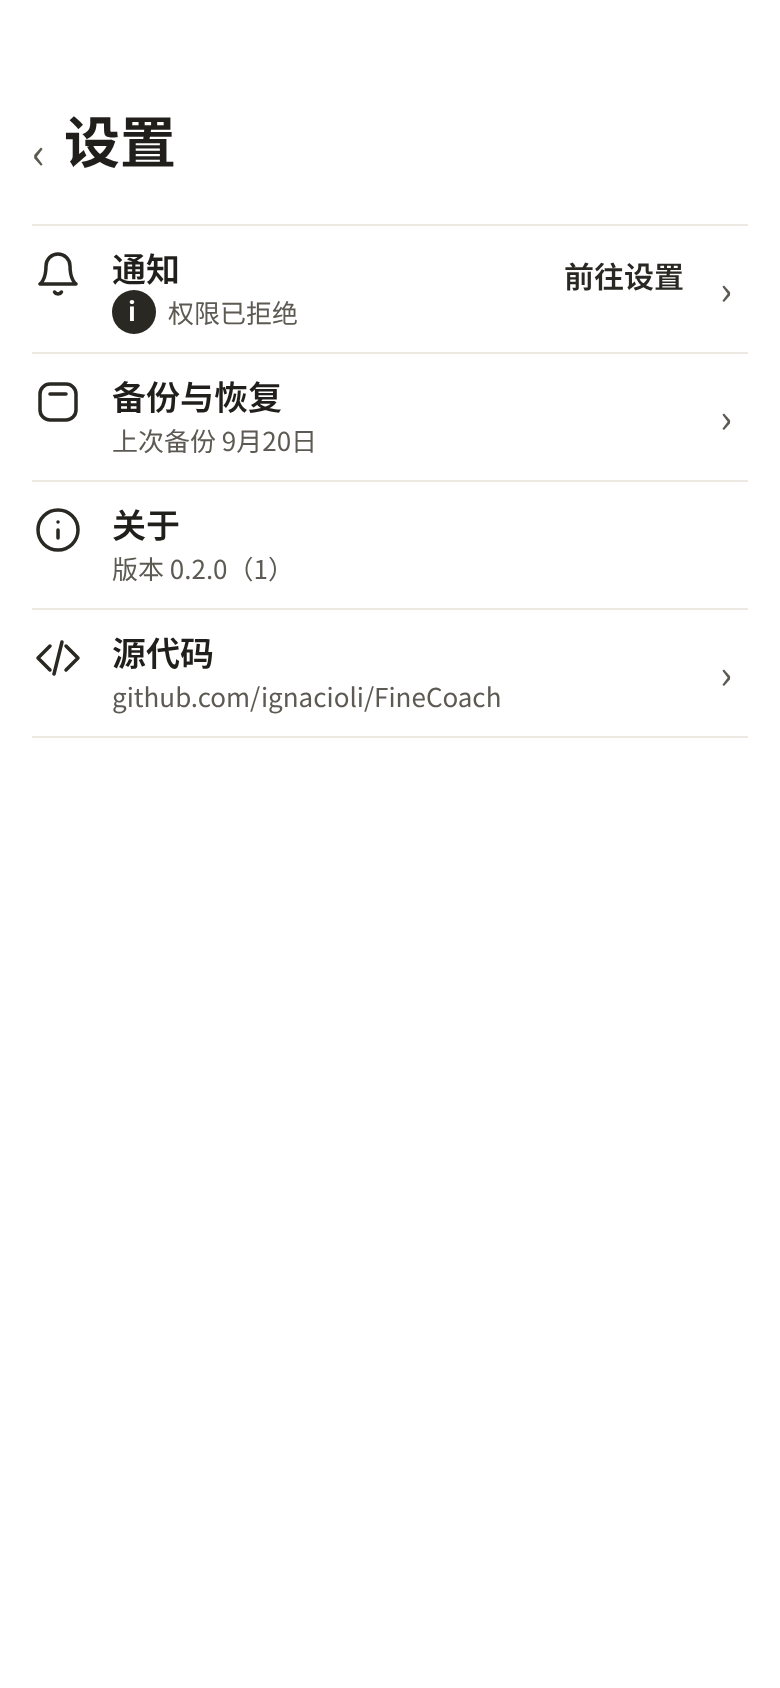
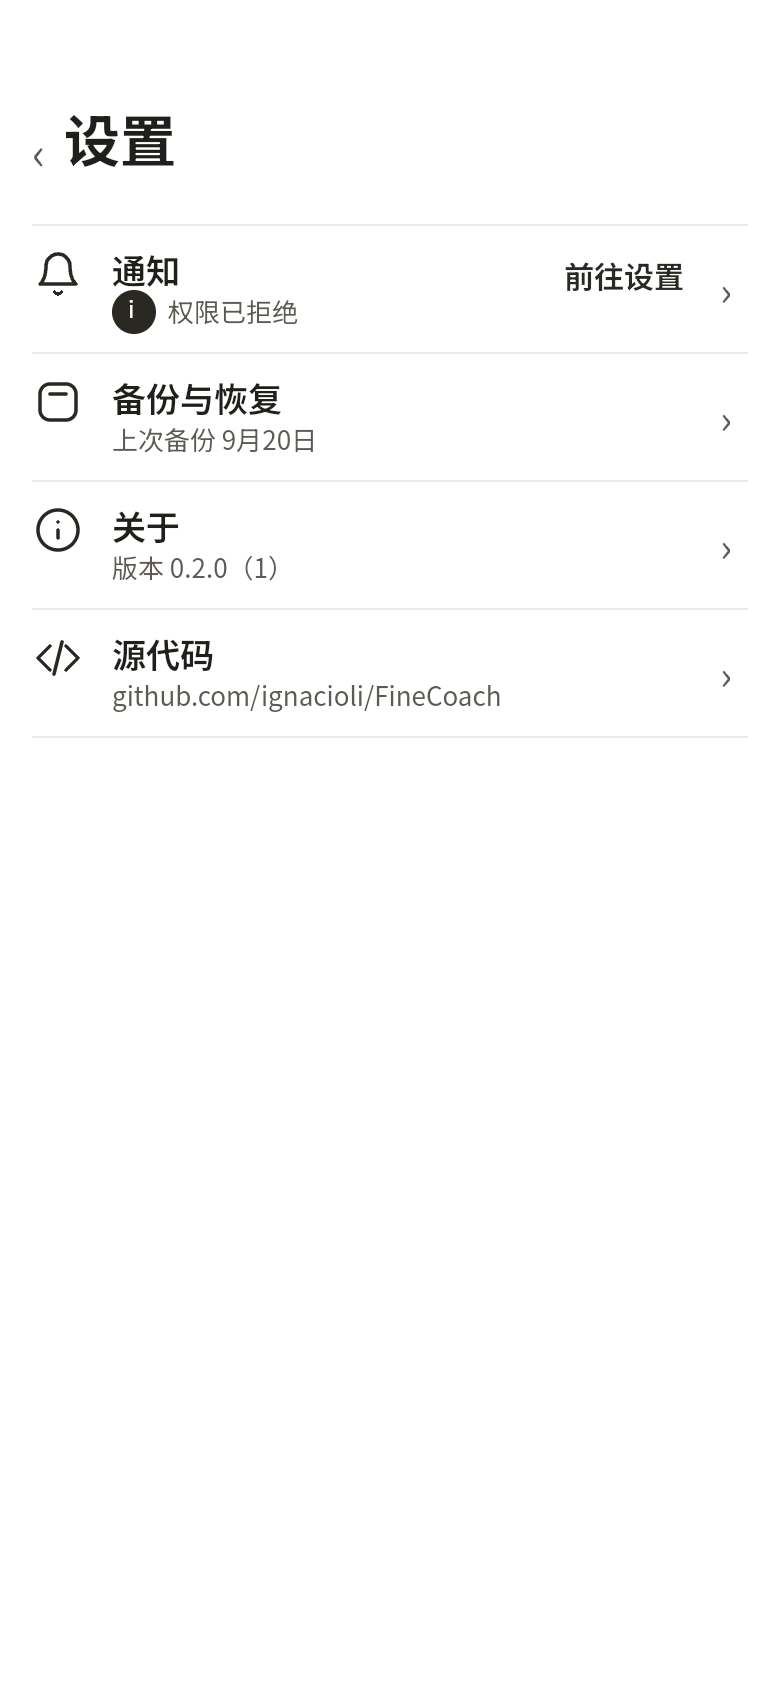
feat: show exercise catalog and font attribution on the coach About page
Make Settings > About tappable and add an About page that counts the
bundled catalog's sources and licenses from provenance.json at runtime
(free-exercise-db Unlicense, wger.de CC BY-SA 3.0/4.0 and CC0, FineCoach
originals MIT), links to provenance.json and the CC BY-SA licenses, and
lists the Noto Sans SC OFL license. Normalize license spellings so the
student archive viewer no longer shows the same license twice.

Needed before TestFlight distribution (owner decision D6, 2026-11-02;
design decision README C33, Penpot D15c/D15d/D15e backfilled).

diff --git a/ios/FineCoachApp/Features/Settings/CoachAboutView.swift b/ios/FineCoachApp/Features/Settings/CoachAboutView.swift
@@ -1,0 +1,82 @@
+import SwiftUI
+
+struct CoachAboutView: View {
+    static let provenanceURL = URL(
+        string:
+            "https://github.com/ignacioli/FineCoach/blob/main/ios/FineCoachApp/Resources/ExerciseCatalog/provenance.json"
+    )!
+    static let ccBySA4URL = URL(string: "https://creativecommons.org/licenses/by-sa/4.0/")!
+    static let ccBySA3URL = URL(string: "https://creativecommons.org/licenses/by-sa/3.0/")!
+
+    @Environment(\.openURL) private var openURL
+    @State private var sources: [CoachAboutSource] = []
+    @State private var catalogUnavailable = false
+
+    var body: some View {
+        ScrollView {
+            VStack(alignment: .leading, spacing: FCPrimitives.space4) {
+                FCPageHeader(
+                    title: String(localized: "settings.about"),
+                    back: .init(accessibilityIdentifier: FCAccessibilityID.aboutBack))
+                FCLabelValueRow(label: String(localized: "about.version"), value: SettingsView.versionText)
+                FCSectionLabel(String(localized: "about.sources"))
+                VStack(spacing: 0) {
+                    FCListRowDivider()
+                    ForEach(sources) { source in
+                        FCHubRow(icon: .symbol("book"), title: source.text, mode: .informational)
+                        FCListRowDivider()
+                    }
+                }
+                if catalogUnavailable {
+                    Text(String(localized: "about.sources.unavailable"))
+                        .fcFont(.caption)
+                        .foregroundStyle(FCSemanticColors.textSecondary)
+                }
+                Text(String(localized: "about.translation"))
+                    .fcFont(.caption)
+                    .foregroundStyle(FCSemanticColors.textSecondary)
+                VStack(spacing: 0) {
+                    FCListRowDivider()
+                    externalLink(
+                        String(localized: "about.provenance"), url: Self.provenanceURL,
+                        identifier: FCAccessibilityID.aboutProvenance)
+                    FCListRowDivider()
+                    externalLink(
+                        "CC BY-SA 4.0", url: Self.ccBySA4URL,
+                        identifier: FCAccessibilityID.aboutCCBySA4)
+                    FCListRowDivider()
+                    externalLink(
+                        "CC BY-SA 3.0", url: Self.ccBySA3URL,
+                        identifier: FCAccessibilityID.aboutCCBySA3)
+                    FCListRowDivider()
+                }
+                FCSectionLabel(String(localized: "about.fonts"))
+                FCHubRow(
+                    icon: .symbol("textformat"), title: "Noto Sans SC · SIL Open Font License 1.1",
+                    mode: .informational)
+            }
+            .frame(maxWidth: .infinity, alignment: .leading)
+            .padding(.horizontal, FCPrimitives.space4)
+            .padding(.bottom, FCPrimitives.space6)
+        }
+        .background(FCSemanticColors.surfacePage)
+        .fcSecondaryPage()
+        .accessibilityElement(children: .contain)
+        .accessibilityIdentifier(FCAccessibilityID.aboutRoot)
+        .task {
+            do {
+                sources = try CoachAboutSource.rows(catalog: PlaceholderExerciseCatalogLoader.loadFromBundle(.main))
+            } catch {
+                catalogUnavailable = true
+            }
+        }
+    }
+
+    private func externalLink(_ title: String, url: URL, identifier: String) -> some View {
+        FCHubRow(
+            icon: .symbol("chevron.left.forwardslash.chevron.right"), title: title,
+            mode: .action { openURL(url) }
+        )
+        .accessibilityIdentifier(identifier)
+    }
+}

diff --git a/ios/FineCoachTests/App/CoachAboutAttributionTests.swift b/ios/FineCoachTests/App/CoachAboutAttributionTests.swift
@@ -1,0 +1,51 @@
+import Foundation
+import XCTest
+
+@testable import FineCoach
+
+final class CoachAboutAttributionTests: XCTestCase {
+    func testLicenseAliasesNormalizeBeforeDeduplicationAndUnknownNamesSurvive() {
+        let cases = [
+            "CC-BY-SA 4": "CC BY-SA 4.0", "CC-BY-SA-4.0": "CC BY-SA 4.0",
+            "CC-BY-SA 3": "CC BY-SA 3.0", "CC-BY-SA-3.0": "CC BY-SA 3.0",
+            "CC0": "CC0 1.0", "CC0-1.0": "CC0 1.0", "Unlicense": "Unlicense",
+            "MIT": "MIT", "Unknown license": "Unknown license",
+        ]
+        for (raw, expected) in cases {
+            XCTAssertEqual(ExerciseLicensePresentation.displayName(raw), expected)
+        }
+        XCTAssertEqual(
+            ArchiveViewerPresentation.licenseDisplayName("CC-BY-SA 4 / CC-BY-SA-4.0"),
+            "CC\u{00A0}BY\u{2011}SA\u{00A0}4.0")
+    }
+
+    func testBundledSourceRowsCountExercisesAndNormalizeLicenses() throws {
+        let catalog = try PlaceholderExerciseCatalogLoader.loadFromBundle(.main)
+        let rows = try CoachAboutSource.rows(catalog: catalog)
+        XCTAssertEqual(rows.map(\.id), ["free-exercise-db", "wger.de", "finecoach-built"])
+        XCTAssertEqual(rows.map(\.count), [310, 226, 6])
+        XCTAssertEqual(
+            rows.map(\.text),
+            [
+                "free-exercise-db · 310 条 · Unlicense",
+                "wger.de · 226 条 · CC BY-SA 3.0 / CC BY-SA 4.0 / CC0 1.0",
+                "FineCoach 自建 · 6 条 · MIT",
+            ])
+        XCTAssertEqual(rows.reduce(0) { $0 + $1.count }, catalog.exercises.count)
+    }
+
+    func testMissingProvenanceIsRejectedRatherThanOmitted() throws {
+        var catalog = try PlaceholderExerciseCatalogLoader.loadFromBundle(.main)
+        catalog.provenance.records = []
+        XCTAssertThrowsError(try CoachAboutSource.rows(catalog: catalog))
+    }
+
+    func testExternalLinksAreFixedApprovedURLs() {
+        XCTAssertEqual(
+            CoachAboutView.provenanceURL.absoluteString,
+            "https://github.com/ignacioli/FineCoach/blob/main/ios/FineCoachApp/Resources/ExerciseCatalog/provenance.json"
+        )
+        XCTAssertEqual(CoachAboutView.ccBySA4URL.absoluteString, "https://creativecommons.org/licenses/by-sa/4.0/")
+        XCTAssertEqual(CoachAboutView.ccBySA3URL.absoluteString, "https://creativecommons.org/licenses/by-sa/3.0/")
+    }
+}

diff --git a/ios/FineCoachApp/Features/Settings/ExerciseLicensePresentation.swift b/ios/FineCoachApp/Features/Settings/ExerciseLicensePresentation.swift
@@ -1,0 +1,48 @@
+import Foundation
+
+/// Canonical display spelling only; provenance records remain unchanged.
+enum ExerciseLicensePresentation {
+    static func displayName(_ raw: String) -> String {
+        switch raw {
+        case "CC-BY-SA 4", "CC-BY-SA 4.0", "CC-BY-SA-4.0": return "CC BY-SA 4.0"
+        case "CC-BY-SA 3", "CC-BY-SA 3.0", "CC-BY-SA-3.0": return "CC BY-SA 3.0"
+        case "CC0", "CC0-1.0": return "CC0 1.0"
+        default: return raw
+        }
+    }
+
+    static func uniqueNames(_ names: [String]) -> [String] {
+        var seen = Set<String>()
+        return names.map(displayName).filter { seen.insert($0).inserted }
+    }
+}
+
+struct CoachAboutSource: Equatable, Identifiable {
+    let id: String
+    let count: Int
+    let licenses: [String]
+
+    var displayName: String {
+        id == "finecoach-built" ? String(localized: "about.source.built") : id
+    }
+
+    var text: String {
+        String(
+            format: String(localized: "about.source.format"),
+            displayName, count, licenses.joined(separator: " / "))
+    }
+
+    static func rows(catalog: PlaceholderExerciseCatalog) throws -> [Self] {
+        let records = Dictionary(uniqueKeysWithValues: catalog.provenance.records.map { ($0.recordID, $0) })
+        var grouped: [String: [String]] = [:]
+        for exercise in catalog.exercises {
+            guard let record = records[exercise.provenanceRef] else { throw DomainError.incompatibleInput }
+            let source = String(record.sourceIdentifier.split(separator: ":", maxSplits: 1)[0])
+            grouped[source, default: []].append(record.licenseIdentifier)
+        }
+        return grouped.map { source, licenses in
+            Self(
+                id: source, count: licenses.count, licenses: ExerciseLicensePresentation.uniqueNames(licenses).sorted())
+        }.sorted { $0.count == $1.count ? $0.id < $1.id : $0.count > $1.count }
+    }
+}

diff --git a/ios/FineCoachApp/Features/Settings/SettingsView.swift b/ios/FineCoachApp/Features/Settings/SettingsView.swift
@@ -32,8 +32,8 @@ struct SettingsView: View {
                     FCHubRow(
                         icon: .symbol("info.circle"),
                         title: String(localized: "settings.about"),
-                        subtitle: .text(versionText),
-                        mode: .informational
+                        subtitle: .text(Self.versionText),
+                        mode: .action { path.append(.about) }
                     )
                     .accessibilityIdentifier(FCAccessibilityID.settingsAbout)
                     FCListRowDivider()
@@ -78,7 +78,7 @@ struct SettingsView: View {
         }
     }
 
-    private var versionText: String {
+    static var versionText: String {
         let info = Bundle.main.infoDictionary
         let version = info?["CFBundleShortVersionString"] as? String ?? "—"
         let build = info?["CFBundleVersion"] as? String ?? "—"

diff --git a/ios/FineCoachApp/App/RootNavigation.swift b/ios/FineCoachApp/App/RootNavigation.swift
@@ -4,6 +4,7 @@ enum RootDestination: Hashable {
     case archivedList
     case resourceHub
     case settings
+    case about
     case studentDetail(UUID)
     case editor(StudentEditorMode)
     case activeSession(UUID)
@@ -234,6 +235,8 @@ struct RootNavigation: View {
                                 )
                             case .settings:
                                 SettingsView(path: $path)
+                            case .about:
+                                CoachAboutView()
                             case .backupRestore:
                                 BackupExportFlowView(
                                     coordinator: environment.requireBackupCoordinator(),

diff --git a/ios/FineCoachApp/App/FCAccessibilityID.swift b/ios/FineCoachApp/App/FCAccessibilityID.swift
@@ -182,6 +182,12 @@ public enum FCAccessibilityID {
     public static let settingsSystemEntryDescription = "settings.systemEntry.description"
     public static let settingsNotifications = "settings.notifications"
     public static let settingsBackup = "settings.backup"
+    public static let aboutRoot = "about.root"
+    public static let aboutBack = "about.back"
+    public static let aboutProvenance = "about.provenance"
+    public static let aboutCCBySA4 = "about.ccBySA4"
+    public static let aboutCCBySA3 = "about.ccBySA3"
+
     public static let settingsAbout = "settings.about"
     public static let settingsSourceCode = "settings.sourceCode"
 

diff --git a/ios/FineCoachApp/Features/ArchiveViewer/ArchiveViewerPresentation.swift b/ios/FineCoachApp/Features/ArchiveViewer/ArchiveViewerPresentation.swift
@@ -70,7 +70,7 @@ enum ArchiveViewerPresentation {
     /// names kept in one piece: the version is joined by a no-break space and the hyphens are
     /// non-breaking, so a line break can only fall at the ` / ` between two licences (M2-17).
     static func licenseDisplayName(_ raw: String) -> String {
-        raw.components(separatedBy: " / ").map { name in
+        ExerciseLicensePresentation.uniqueNames(raw.components(separatedBy: " / ")).map { name in
             var shown = ""
             let characters = Array(name)
             for (index, character) in characters.enumerated() {

diff --git a/design/design-system/README.md b/design/design-system/README.md
@@ -492,6 +492,7 @@ Phase 6.5 人工审核（T063）发现 8 个核心界面需要结构调整，并
 | C30 | 阶段 C：今日、课程日历没课时的空态表现力不足，负责人希望加一段安静的动画增加调性（兔子教练坐在圆桌旁，杯子冒热气）；§14.1 规定动效不循环，B-D7 禁止句末语气词 | ① §14.1 增加第 6 条「空态环境动效」例外：可循环，慢、幅度小，不可见时停止，「减弱动态效果」时静止。用 SwiftUI 原生实现（`TimelineView`、`Canvas`），不引入 Lottie 等第三方库。插画需要新的分层素材（透明底，兔子与桌子、杯子分层），热气用代码绘制。② 文案例外：空态的标题和说明（`Localizable.xcstrings` 里 key 含 `empty`、不含 `accessibility` 的条目）可以用句末语气词和全角「～」；「您」「请」「操作失败」、感叹号仍然禁止。扫描测试 `TrainingEntryScanTests` 按此改写 | 已定（产品负责人 2026-10-30）；原型与素材 2026-10-30 定稿（§9、§14.2），文案定稿：今日标题「今天没课，休息一下吧～」、说明「有新课程时会显示在这里」，课程日历「这天没课，歇一歇吧～」；实现待做 |
 | C31 | 开屏过渡版（G-b，§1.14）负责人认为不好看，阶段 C 再定 | 开屏只用白屏，直接进首页，不放图标，不加过场叠层，不做开屏动画（不做闪屏） | 已定（产品负责人 2026-10-30）；实现待做 |
 | C32 | 「第 N 节课」只奖励累计量，规律训练本身没有被看见；健身不是严格按课表上课 | 增加「连续 N 周」里程碑（specs 004 Revision 1.7、PD-D7）：每周（周一开始，本地时间）完成 ≥2 节算出勤周，连续 4、8、12、26、52 周，之后每 26 周显示；挂在本周第 2 节课上；与「第 N 节课」同节达到时两行都显示，「第 N 节课」在前；副标题「每周练 2 次及以上」；分享卡片同样带「比心」贴纸；开关提示顺序为新纪录 → 第 N 节课 → 连续 N 周 → 进步。分类 B：复用里程碑行（`FCListRow`）与贴纸，不新建组件，不加 token。否决：其他页面显示当前连续周数、断档提醒、请假豁免 | 已定（产品负责人 2026-10-31），已回填 Penpot D-b2 状态 ③、D-c2（快照 `attendance-streak D-b2 D-c2 2026-10-31`）；实现待做 |
+| C33 | TestFlight 分发前教练端缺动作库与字体署名 | 设置 42「关于」改为可点并保留版本副标题；新「关于」页复用现有组件，显示版本、从 provenance.json 运行时统计并按条数降序的来源与规范化去重许可、中文翻译说明、逐条来源及 CC BY-SA 4.0 / 3.0 固定系统外链、Noto Sans SC 的 SIL Open Font License 1.1；学员端许可显示共用规范化函数并在规范化后去重；不改 provenance.json、不加 token 或共享组件 | 已定（产品负责人 2026-11-02）。Penpot 已回填：D15c/D15d（42/43）「关于」行加 `›`，新增画板「D15e 关于」，快照 `before-about-page 2026-11-02` → `about page D15e + 42/43 about chevron (C33) 2026-11-02`；`design/m1-b-hifi/screens/` 的 42/43 已于 2026-11-02 按 2 倍重导出替换，新增 `44-about.png`（D15e） |
 | O6 | 吉祥物造型与知名动画角色是否存在版权关联 | 产品负责人确认：吉祥物为其自行生成的原创形象，与该角色无关，不涉及版权问题 | 已定（产品负责人） |
 
 ## 11. 对比度核验（WCAG 2.x）
